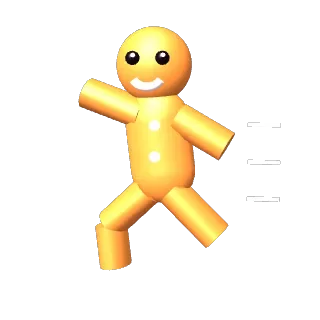
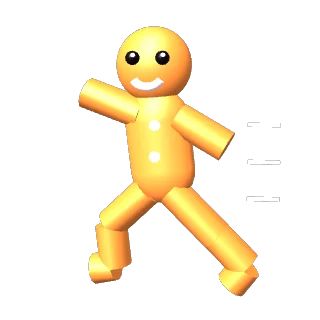
Road pickups are the strains' plant holograms too; gingerbread gets his whole back leg; splash layout: plant room ends a caption-height above TAP TO TUNE IN in wide windows, caption never lands on the button, link row never reaches the ticker (checked at ten sizes)

Changed region(s): [[0.625, 0.6875, 0.8125, 0.9375], [0.25, 0.7812, 0.4062, 0.9062]]

diff --git a/web/babylon/index.html b/web/babylon/index.html
@@ -889,10 +889,10 @@ void main(){ vec3 d = normalize(vP); float el = d.y, az = atan(d.x, -d.z);
     { /* every molecule is drawn the same size: centred on its bounding box, then scaled to one common radius (their own radii run from 1.45 to 1.94) */ let x0 = 1e9, y0 = 1e9, z0 = 1e9, x1 = -1e9, y1 = -1e9, z1 = -1e9; for (let i = 0; i < pos.length; i += 3) { x0 = Math.min(x0, pos[i]); x1 = Math.max(x1, pos[i]); y0 = Math.min(y0, pos[i + 1]); y1 = Math.max(y1, pos[i + 1]); z0 = Math.min(z0, pos[i + 2]); z1 = Math.max(z1, pos[i + 2]); } const cx = (x0 + x1) / 2, cy = (y0 + y1) / 2, cz = (z0 + z1) / 2; let R = 0; for (let i = 0; i < pos.length; i += 3) R = Math.max(R, Math.hypot(pos[i] - cx, pos[i + 1] - cy, pos[i + 2] - cz)); const k = 1.85 / (R || 1); for (let i = 0; i < pos.length; i += 3) { pos[i] = (pos[i] - cx) * k; pos[i + 1] = (pos[i + 1] - cy) * k; pos[i + 2] = (pos[i + 2] - cz) * k; } }
     const vd = new B.VertexData(); vd.positions = pos; vd.normals = nor; vd.colors = col; vd.indices = idx; const m = new B.Mesh('mol_' + id, scene); vd.applyToMesh(m); m.material = material('', true, false); m.isVisible = false; m.isPickable = false; m.alwaysSelectAsActiveMesh = true; m.doNotSyncBoundingInfo = true; return MOLG[id] = m;
   }
-  for (const b of BUFFS) { const src = molGeo(MOL_ORDER[b.mi % MOL_ORDER.length]), im = src.createInstance('pill'); im.isPickable = true; im.alwaysSelectAsActiveMesh = true; im.scaling.setAll(1.6); im.rotationQuaternion = new B.Quaternion(); b.im = im; }
+  const HOLOP = {}, CP_OF = {}; for (const cp in STRAIN_ID) CP_OF[STRAIN_ID[cp]] = cp;          /* (owner 2026-11-27: the road pickups are the strains' plants too) */
+  for (const b of BUFFS) { const mid = MOL_ORDER[b.mi % MOL_ORDER.length], hp = STRAINS && CP_OF[mid] ? holoInstance(CP_OF[mid], .95) : null; if (hp) { b.im = hp; continue; } const src = molGeo(mid), im = src.createInstance('pill'); im.isPickable = true; im.alwaysSelectAsActiveMesh = true; im.scaling.setAll(1.6); im.rotationQuaternion = new B.Quaternion(); b.im = im; }
   /* THE TRIP PICKUP AS A HOLOGRAM (owner 2026-11-27): the dose you fly into shows the world's own strain as its plant (plants3d.js), projected:
      true colours, scan lines, a ring emitter on the ground and a cone of light. Additive light, so no backdrop. One merged mesh per plant, instanced. */
-  const HOLOP = {};
   function holoPlant(cp) { if (HOLOP[cp] !== undefined) return HOLOP[cp]; const P = PANTRY[cp]; if (!P) return (HOLOP[cp] = null);
     /* the plant: the same pre-rendered 3/4 view as the title screen (art/plants), on a plane that always faces you */
     const tex = new B.Texture('art/plants/' + P.plant.replace(/ /g, '-') + '-1.webp?v=1', scene, true, true); tex.hasAlpha = true; tex.uScale = -1; tex.uOffset = 1; tex.wrapU = tex.wrapV = B.Texture.CLAMP_ADDRESSMODE;
@@ -901,14 +901,14 @@ void main(){ vec3 d = normalize(vP); float el = d.y, az = atan(d.x, -d.z);
     const c = new B.Color3(P.c[0], P.c[1], P.c[2]), add = (mesh, a, addv) => { const mt = new B.StandardMaterial('holoA_' + cp + mesh.name, scene); mt.disableLighting = true; mt.emissiveColor = c.scale(addv ? .9 : 1); mt.alpha = a; mt.alphaMode = addv ? B.Engine.ALPHA_ADD : B.Engine.ALPHA_COMBINE;          /* (the cone is plain see-through: adding it over the plant overflowed to black) */ mt.backFaceCulling = false; mesh.material = mt; mesh.isVisible = false; mesh.isPickable = false; mesh.alwaysSelectAsActiveMesh = true; return mesh; };
     const ring = add(B.MeshBuilder.CreateTorus('ring', { diameter: 3.2, thickness: .12, tessellation: 32 }, scene), .9, true), cone = add(B.MeshBuilder.CreateCylinder('cone', { height: 3.2, diameterTop: 3.4, diameterBottom: 1.4, tessellation: 20, cap: B.Mesh.NO_CAP }, scene), .14);
     return (HOLOP[cp] = { merged, ring, cone }); }
-  function holoInstance(cp) { const H = holoPlant(cp); if (!H) return null; const T = new B.TransformNode('holoPick', scene); T.rotationQuaternion = new B.Quaternion();
+  function holoInstance(cp, lite) { const H = holoPlant(cp); if (!H) return null; const T = new B.TransformNode('holoPick', scene); T.rotationQuaternion = new B.Quaternion(); if (lite) { const pi = H.merged.createInstance('hpl'); pi.parent = T; pi.billboardMode = B.Mesh.BILLBOARDMODE_Y; pi.scaling.setAll(lite); pi.isPickable = true; pi.alwaysSelectAsActiveMesh = true; T.holo = true; T.parts = [pi]; return T; }          /* (lite: just the plant, for the many small road pickups) */
     const pi = H.merged.createInstance('hp'); pi.parent = T; pi.billboardMode = B.Mesh.BILLBOARDMODE_Y; pi.scaling.setAll(1.8); const ri = H.ring.createInstance('hr'); ri.parent = T; ri.position.y = -3.4; ri.scaling.setAll(1.3); const ci = H.cone.createInstance('hc'); ci.parent = T; ci.position.y = -1.6; ci.scaling.set(1.3, 1.1, 1.3);
     for (const m of [pi, ri, ci]) { m.isPickable = false; m.alwaysSelectAsActiveMesh = true; } T.holo = true; T.parts = [pi, ri, ci]; return T; }
   // the beacon: a tall thin additive beam in the molecule's colour (the original: top r .1, bottom r .16, height 9, alpha .32), so a pickup is seen from far down the hill
   const BEAM = MOL_ORDER.map((id) => { const m = B.MeshBuilder.CreateCylinder('beam_' + id, { height: 9, diameterTop: .2, diameterBottom: .32, tessellation: 6, cap: B.Mesh.NO_CAP }, scene), c = MOLS[id].c, mt = new B.StandardMaterial('beamM_' + id, scene); mt.disableLighting = true; mt.emissiveColor = new B.Color3(c[0], c[1], c[2]); mt.alpha = .32; mt.alphaMode = B.Engine.ALPHA_ADD; mt.backFaceCulling = false; mt.disableDepthWrite = true; m.material = mt; m.isPickable = false; m.isVisible = false; m.alwaysSelectAsActiveMesh = true; return m; });
   for (const b of BUFFS) { const bm = BEAM[b.mi % MOL_ORDER.length].createInstance('beam'); bm.isPickable = false; bm.alwaysSelectAsActiveMesh = true; b.bm = bm; }
   const TILT = B.Quaternion.RotationYawPitchRoll(0, .5, .3), qy = new B.Quaternion();
-  function pillsUpdate() { for (const b of BUFFS) { const im = b.im; if (!im) continue; if (b.taken || Math.abs(b.z - PH.z) > 420) { if (im.isEnabled()) { im.setEnabled(false); b.bm.setEnabled(false); } continue; } if (!im.isEnabled()) { im.setEnabled(true); b.bm.setEnabled(false); } b.bm.position.set(b.x, th(b.x, b.z) + 4.6, b.z); const age = U.time; im.position.set(b.x, th(b.x, b.z) + 1.7 + .2 * Math.sin(age * 2.8 + b.x), b.z); B.Quaternion.RotationYawPitchRollToRef(age * 2.4, 0, 0, qy); qy.multiplyToRef(TILT, im.rotationQuaternion); } }
+  function pillsUpdate() { for (const b of BUFFS) { const im = b.im; if (!im) continue; if (b.taken || Math.abs(b.z - PH.z) > 420) { if (im.isEnabled()) { im.setEnabled(false); b.bm.setEnabled(false); } continue; } if (!im.isEnabled()) { im.setEnabled(true); b.bm.setEnabled(false); } b.bm.position.set(b.x, th(b.x, b.z) + 4.6, b.z); const age = U.time; im.position.set(b.x, th(b.x, b.z) + 1.7 + .2 * Math.sin(age * 2.8 + b.x), b.z); if (im.holo) continue; B.Quaternion.RotationYawPitchRollToRef(age * 2.4, 0, 0, qy); qy.multiplyToRef(TILT, im.rotationQuaternion); } }
   const K = { l: 0, r: 0 }, CTRL = { hands: true }; let headSteer = 0, padSteer = 0, touchSteer = 0, started = false, tStart = 0, shake = 0, lastJump = 0;
   const KEYL = (e) => e.code === 'KeyA' || e.key === 'ArrowLeft' || e.key === 'a' || e.key === 'A', KEYR = (e) => e.code === 'KeyD' || e.key === 'ArrowRight' || e.key === 'd' || e.key === 'D';          /* (owner 2026-11-27: A/D by key position, so Caps Lock, Shift and other layouts all steer; the arrows never scroll the page) */ addEventListener('keydown', (e) => { if (KEYL(e)) K.l = 1; if (KEYR(e)) K.r = 1; if (/^Arrow/.test(e.key) && !(e.target && /INPUT|TEXTAREA|SELECT/.test(e.target.tagName))) e.preventDefault(); }); addEventListener('blur', () => { K.l = 0; K.r = 0; });
   addEventListener('keyup', (e) => { if (KEYL(e)) K.l = 0; if (KEYR(e)) K.r = 0; });

diff --git a/web/babylon/splash.html b/web/babylon/splash.html
@@ -91,6 +91,10 @@ canvas { position:fixed; inset:0; width:100%; height:100%; display:block; }
 #strain { background:rgba(8,6,14,.78); padding:6px 14px 7px; border-radius:10px; box-shadow:0 0 0 1px rgba(255,255,255,.12); z-index:7 !important; font-size:clamp(12px,1.8vmin + 7px,17px) !important; } #strain .fx { font-size:clamp(13px,1.6vmin + 8px,18px) !important; }          /* (owner 2026-11-27: name, molecule and what it does, always readable over the road) */          /* (owner 2026-11-27: hangs below TAP TO TUNE IN, never over it or the caption) */ }
 
 #strain { background:rgba(8,6,14,.78); padding:6px 14px 7px; border-radius:10px; box-shadow:0 0 0 1px rgba(255,255,255,.12); z-index:7; width:max-content; max-width:min(92vw,560px); margin-left:auto; margin-right:auto; }          /* (both orientations: the caption on its own plate) */
+
+@media (orientation:landscape) and (max-height:500px) { #hint { flex-direction:row !important; flex-wrap:wrap; justify-content:flex-end; max-width:34vw !important; gap:.3em .9em !important; } }          /* (owner 2026-11-27: the links sit in a row so they never reach the ticker) */
+#strain { max-width:min(92vw,640px) !important; }
+@media (orientation:landscape) and (max-height:500px) { #strain { max-width:44vw !important; } #hint { width:max-content; } }
 </style></head>
 <body>
 <script>window.__PRIVMS = 0; if (/[?&]firstvisit\b/.test(location.search)) try { for (const k of ['dl_lockfirst', 'dl_firstlock']) localStorage.removeItem(k); } catch (e) { }          /* (?firstvisit: see the first-visit gag again) */</script>
@@ -497,7 +501,8 @@ function draw(t, dt) {
    spectrum to the bottom. Measured from the page, so it follows the real text sizes */
 function sideStrain(room) { const key = (room.side ? 's' : '') + Math.round(room.x) + ',' + Math.round(room.y) + ',' + Math.round(MOL.x) + ',' + Math.round(MOL.y) + ',' + Math.round(MOL.r) + ',' + W + 'x' + H + ',' + si; if (RC.cap === key) return; RC.cap = key; sideStrain0(room); }
 function sideStrain0(room) { const on = !!room.side; if (on !== strainEl.classList.contains('side')) strainEl.classList.toggle('side', on);
-  if (on) { strainEl.style.left = Math.round(room.x) + 'px'; strainEl.style.top = Math.round(room.y + room.r + 10) + 'px'; strainEl.style.position = ''; strainEl.style.transform = ''; } else if (innerWidth > innerHeight) { strainEl.style.position = 'fixed'; strainEl.style.left = Math.round(MOL.x) + 'px'; strainEl.style.transform = 'translateX(-50%)'; strainEl.style.top = Math.round(Math.min(MOL.y + MOL.r * .95 + 8, innerHeight - (strainEl.offsetHeight || 50) - 30)) + 'px'; strainEl.style.bottom = 'auto';          /* (always right under the plant) */ } else { strainEl.style.position = ''; strainEl.style.left = ''; strainEl.style.top = ''; strainEl.style.transform = ''; } }          /* (owner 2026-11-27: the name and its line always centred under the molecule) */
+  if (on) { strainEl.style.left = Math.round(room.x) + 'px'; strainEl.style.top = Math.round(room.y + room.r + 10) + 'px'; strainEl.style.position = ''; strainEl.style.transform = ''; } else if (innerWidth > innerHeight) { strainEl.style.position = 'fixed'; strainEl.style.left = Math.round(MOL.x) + 'px'; strainEl.style.transform = 'translateX(-50%)'; { const tp = document.getElementById('tap'), tr0 = tp ? tp.getBoundingClientRect() : null, cw = strainEl.offsetWidth || 300, below = tr0 && tr0.height > 0 && tr0.left < MOL.x + cw / 2 && MOL.x - cw / 2 < tr0.right, tr = below ? tr0 : null, lim = (tr ? tr.top : innerHeight - 30) - (strainEl.offsetHeight || 50) - 12;          /* (the button only limits the caption when it is directly below it) */
+    strainEl.style.top = Math.round(Math.min(MOL.y + MOL.r * .95 + 8, lim)) + 'px'; const cr = strainEl.getBoundingClientRect(); if (tr && cr.bottom > tr.top - 10) strainEl.style.top = Math.round(tr.top - 10 - cr.height) + 'px'; }          /* (second look after it wraps: never onto the button) */ strainEl.style.bottom = 'auto';          /* (always right under the plant) */ } else { strainEl.style.position = ''; strainEl.style.left = ''; strainEl.style.top = ''; strainEl.style.transform = ''; } }          /* (owner 2026-11-27: the name and its line always centred under the molecule) */
 window.MOLR = () => (RC.v ? RC.v.r : 0); const RC = { k: '', t: 0, v: null };
 function roomCached(short) { const k = W + 'x' + H + (short ? 's' : ''), n = performance.now();
   if (RC.v && RC.k === k && (RC.settled || n - RC.t < 400)) return RC.v;          /* (owner 2026-11-27: measured when the screen changes, refined for the first 3 s while fonts settle, then fixed: no more size jumps) */
@@ -505,7 +510,7 @@ function roomCached(short) { const k = W + 'x' + H + (short ? 's' : ''), n = per
   RC.k = k; RC.t = n; RC.settled = n - RC.t0 > 3000; RC.cap = null; return RC.v; }          /* (owner 2026-11-27: measuring the page every frame forced a full layout 60 times a second and slowed the sky) */
 function molRoom(short) { let top, bot; const R = (id) => { const e = document.getElementById(id); return e ? e.getBoundingClientRect() : null; };
   if (short) { const d = R('dial'); top = d ? d.bottom + 6 : H * .2; bot = H - 12; }
-  else { const tg = R('tag'), st = strainEl.getBoundingClientRect(); top = tg ? tg.bottom + 8 : H * .32; bot = st && st.top > top + 40 ? st.top - 8 : H * .75; }
+  else { const tg = R('tag'), st = strainEl.getBoundingClientRect(); top = tg ? tg.bottom + 8 : H * .32; if (W > H) { const tp = R('tap'); bot = (tp && tp.height > 0 ? tp.top : H * .82) - (strainEl.offsetHeight || 48) - 30; } else bot = st && st.top > top + 40 ? st.top - 8 : H * .75; }          /* (owner 2026-11-27: in a wide window the caption sits under the plant, so the plant's room ends a caption-height above TAP TO TUNE IN) */
   const y = (top + bot) / 2, r = Math.max(24, Math.min((bot - top) / 2 * .9, W * (short ? .2 : .42)));
   /* a wide window that isn't tall enough (a desktop browser, not fullscreen): the strip under the title is too thin, so the molecule moves into the open space
      beside the title at a proper size, with its name under it (owner 2026-11-26: it was tiny) */

diff --git a/web/babylon/plants3d.js b/web/babylon/plants3d.js
@@ -34,7 +34,7 @@
         for (const [x, y] of [[-.3, .18], [.32, -.14]]) { sph(.26, V(x, y, .3), WHITE, V(1, 1, .5)); sph(.12, V(x + .02, y, .38), INK); } break; }
       case 'ginger root': { const G = [.88, .5, .2], s = V(1, 1, .5);          /* a gingerbread man, mid-sprint */
         sph(.62, V(.05, .78, 0), G, V(1, 1, .55)); add(B.MeshBuilder.CreateCapsule('t', { height: .95, radius: .27 }, scene), V(0, .12, 0), mat(G), s, V(0, 0, -.12));
-        const limb = (a, b) => tube([a, b], .13, G); limb([.15, .38, 0], [.62, .55, 0]); limb([-.15, .35, 0], [-.55, .12, 0]); limb([.1, -.25, 0], [.42, -.55, 0]); limb([.42, -.55, 0], [.38, -.9, 0]); limb([-.1, -.25, 0], [-.48, -.62, 0]);
+        const limb = (a, b) => tube([a, b], .13, G); limb([.15, .38, 0], [.62, .55, 0]); limb([-.15, .35, 0], [-.55, .12, 0]); limb([.1, -.25, 0], [.42, -.55, 0]); limb([.42, -.55, 0], [.38, -.9, 0]); limb([-.1, -.25, 0], [-.48, -.62, 0]); limb([-.48, -.62, 0], [-.72, -.86, 0]); limb([.38, -.9, 0], [.56, -.94, 0]); limb([-.72, -.86, 0], [-.6, -1.02, 0]);          /* (owner 2026-11-27: the back leg had no lower half) */
         for (const y of [.3, .05]) sph(.09, V(0, y, .15), WHITE, null, null, 'glow'); eye(-.07, .83, .17, .055); eye(.17, .83, .17, .055); smile(.05, .7, .18, .12, WHITE);
         for (const y of [.3, 0, -.3]) box(.26, .03, .03, V(-.85, y, 0), [1, .85, .65], null, 'glow'); break; }
       case 'chamomile': { const PET = [.99, .98, .93], MID = [1, .78, .15];          /* a white daisy, dozing */
